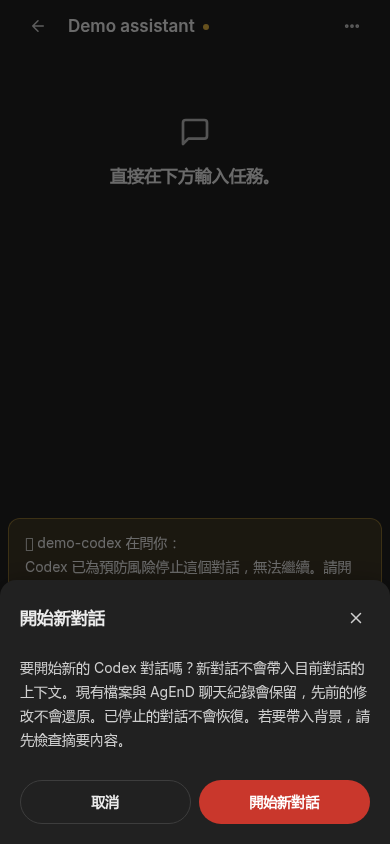
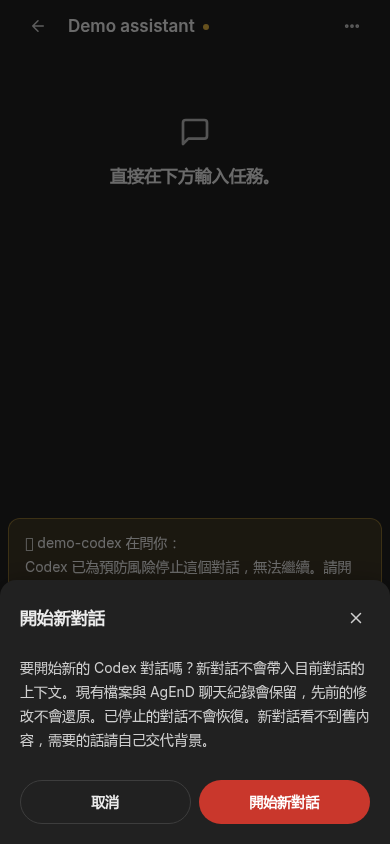
fix(web): distinguish confirming a fresh chat from sending it

Changed region(s): [[0.0308, 0.8626, 0.5231, 0.8934], [0.6462, 0.8318, 0.9538, 0.8626]]

diff --git a/src/locale.ts b/src/locale.ts
@@ -754,7 +754,7 @@ const enMessages = {
     "codex.precaution.summary": "Codex paused this chat for a safety review. Open View for the full report.",
     "codex.precaution.stopped": "Codex stopped this chat as a precaution. This chat cannot continue. Start a new chat to work on a new request.",
     "codex.precaution.new_chat": "Start a new chat",
-    "codex.precaution.new_chat_confirm": "Start a new Codex chat? The new chat will not carry over this conversation’s context. Existing files and AgEnD’s chat history stay; earlier changes are not undone. The stopped chat is not resumed. Review a summary before sharing any context with the new chat.",
+    "codex.precaution.new_chat_confirm": "Start a new Codex chat? The new chat will not carry over this conversation’s context. Existing files and AgEnD’s chat history stay; earlier changes are not undone. The stopped chat is not resumed. The new chat cannot see the old content; provide any background it needs yourself.",
     "codex.precaution.review": "Review findings",
     "codex.precaution.back": "Back",
     "codex.precaution.ack": "Acknowledge and continue",
@@ -786,7 +786,7 @@ const enMessages = {
     "interactive.delivery_failed": "❌ Could not deliver the assistance request for {0} to General.",
     "card.question_intro": "❓ {0} is asking you:",
     "card.question_hint": "Tap an answer below.",
-    "card.selection_hint": "Choose one below — it is keyed into the agent's terminal as you chose. Or answer it yourself in its View.",
+    "card.selection_hint": "Choose one below. We'll press it in the agent's terminal for you.",
     "card.question_hint_text": "Tap an answer below, or reply to this message to answer in your own words.",
     "card.recommended": "(recommended)",
     "card.skip": "⏭ Skip",
@@ -2596,10 +2596,10 @@ const zhTWMessages: { [K in keyof typeof enMessages]: string } = {
     "interactive.kind.dangerous_command": "危險命令確認",
     "interactive.kind.login": "登入",
     "interactive.kind.safety_review": "Codex 安全審查",
-    "codex.precaution.summary": "Codex 已暫停這個對話，等待安全審查。請開啟 View 查看完整報告。",
+    "codex.precaution.summary": "Codex 已暫停這個對話，等待安全審查。請開啟檢視查看完整報告。",
     "codex.precaution.stopped": "Codex 已為預防風險停止這個對話，無法繼續。請開始新對話，處理新的請求。",
     "codex.precaution.new_chat": "開始新對話",
-    "codex.precaution.new_chat_confirm": "要開始新的 Codex 對話嗎？新對話不會帶入目前對話的上下文。現有檔案與 AgEnD 聊天紀錄會保留，先前的修改不會還原。已停止的對話不會恢復。若要帶入背景，請先檢查摘要內容。",
+    "codex.precaution.new_chat_confirm": "要開始新的 Codex 對話嗎？新對話不會帶入目前對話的上下文。現有檔案與 AgEnD 聊天紀錄會保留，先前的修改不會還原。已停止的對話不會恢復。新對話看不到舊內容，需要的話請自己交代背景。",
     "codex.precaution.review": "查看發現事項",
     "codex.precaution.back": "返回",
     "codex.precaution.ack": "確認並繼續",
@@ -2631,7 +2631,7 @@ const zhTWMessages: { [K in keyof typeof enMessages]: string } = {
     "interactive.delivery_failed": "❌ 無法把 {0} 的協助請求送進 General。",
     "card.question_intro": "❓ {0} 在問你：",
     "card.question_hint": "請點下方的答案。",
-    "card.selection_hint": "請在下方選一個——會照你的選擇輸入到 agent 的終端機。也可以自己到它的 View 回答。",
+    "card.selection_hint": "請在下方選一個，我們會在 Agent 的終端機代你按下。",
     "card.question_hint_text": "請點下方的答案，或回覆這則訊息用自己的話回答。",
     "card.recommended": "（建議）",
     "card.skip": "⏭ 略過",

diff --git a/src/ui/panel-needs.js b/src/ui/panel-needs.js
@@ -244,11 +244,12 @@ function NeedsItem({ item, nowMs, owner }) {
     // Only before Chat has booted: the page's own claim on this nonce, taken now (synchronously), kept until the
     // server's list drops the prompt (or the answer fails).
     if (claims.get().prompts[item.nonce]) return;
-    setClaim("prompts", item.nonce, "busy");
     const confirmation = item.actions?.find(a => a.id === action)?.confirmation;
+    setClaim("prompts", item.nonce, confirmation ? "confirming" : "busy");
     if (confirmation && !await confirmDialog({ ...confirmation, danger: true })) {
       setClaim("prompts", item.nonce, null); return;
     }
+    setClaim("prompts", item.nonce, "busy");
     let r = null;
     try {
       const res = await fetch("/ui/prompt", { method: "POST", headers: { "Content-Type": "application/json" },
@@ -285,7 +286,7 @@ function NeedsItem({ item, nowMs, owner }) {
       ${item.type==='host'?(item.hostAlert?html`<${HostAlertActions} record=${item.hostAlert}/>`:html`<a class="btn btn-sm" href=${fleetPath('host-health')}>${hostAlertText('open')}</a>`):null}
       <div class="n-actions">
         ${item.type === "prompt" && Array.isArray(item.actions) ? item.actions.filter((a) => !a.input).map((a) => html`<button key=${a.id} type="button" class="btn btn-sm"
-            disabled=${promptBusy} onClick=${() => answer(a.id)}>${(p ? p.busy : fallback === "busy") ? tn("answering") : a.label}</button>`) : null}
+            disabled=${promptBusy} onClick=${() => answer(a.id)}>${(p ? p.busy && !p.confirming : fallback === "busy") ? tn("answering") : a.label}</button>`) : null}
         ${item.type === "delivery" || item.type === "missed" ? html`<button type="button" class="btn btn-sm" disabled=${!!ack} onClick=${acknowledge}>
             <${Icon} name="check" size=${14} />${ack === "busy" ? tn("acknowledging") : tn("acknowledge")}</button>` : null}
         ${(item.reason === "auth_paused" || item.reason === "backend_signin") && item.signIn && signInOffered() ? html`<button type="button" class="btn btn-sm btn-primary" onClick=${() => openSignIn(item.signIn)}>${tn("signIn")}</button>` : null}

diff --git a/src/ui/panel-chat.js b/src/ui/panel-chat.js
@@ -1259,7 +1259,7 @@ function Prompts({ name }) {
   return html`<div data-trust="permission" class="prompts" aria-live="polite">${list.map(p => html`<div key=${p.nonce} class=${`prompt${p.resolved ? " done" : ""}`} role="group" aria-label=${p.text}>
     <div class="txt">${p.resolved ? (p.outcome || t("chat.promptGone")) : textLinkSegments(p.text, p.links).map(sg => sg.href ? html`<a data-trust="link" class="st-link" href=${sg.href}>${sg.text}</a>` : sg.text)}</div>
     ${p.resolved ? null : html`<div class="acts">${p.actions.filter(a => !a.input).map(a => html`<button key=${a.id} type="button" class="btn" disabled=${!!p.busy} onClick=${() => store.answerPrompt(p, a.id)}>${a.label}</button>`)}
-      ${p.busy ? html`<span class="wait">${t("chat.promptAnswering")}</span>` : null}</div>`}
+      ${p.busy && !p.confirming ? html`<span class="wait">${t("chat.promptAnswering")}</span>` : null}</div>`}
     ${p.resolved ? null : p.actions.filter(a => a.input).map(a => html`<${PromptText} key=${a.id} p=${p} action=${a} />`)}</div>`)}</div>`;
 }
 

diff --git a/src/ui/chat-store.js b/src/ui/chat-store.js
@@ -264,14 +264,16 @@ export function createChatStore(deps) {
   /** `text`: #2675 — the typed answer, for an action the prompt shows a text box for. */
   async function answerPrompt(p, action, text) {
     if (p.busy || p.resolved) return;
-    p.busy = true; changed(p.instance);
     const confirmation = p.actions?.find(a => a.id === action)?.confirmation;
+    p.busy = true; p.confirming = !!confirmation; changed(p.instance);
     if (confirmation) {
       const yes = deps.confirm ? await deps.confirm({ ...confirmation, danger: true }) : false;
+      p.confirming = false;
       if (!yes || p.resolved || s.prompts[p.nonce] !== p) {
         p.busy = false; changed(p.instance); return;
       }
     }
+    changed(p.instance);
     let r;
     try { r = await api("POST", "/ui/prompt", { instance: p.instance, nonce: p.nonce, action, ...(text !== undefined ? { text } : {}) }); }
     catch (err) { r = { error: err && err.message ? err.message : t("chat.disconnected") }; }

diff --git a/tests/codex-stopped-confirm-m3519.test.ts b/tests/codex-stopped-confirm-m3519.test.ts
@@ -19,6 +19,7 @@ it("Chat and Needs you share a confirmation, cancellation sends nothing, and onl
   await settle();
   expect(h.confirm).toHaveBeenCalledWith({ ...confirmation, danger: true });
   expect(h.fetch).not.toHaveBeenCalled();
+  expect(h.prompt()).toMatchObject({ busy: true, confirming: true });
   await h.store.answerPrompt(h.prompt(), "opt-1");
   expect(h.confirm).toHaveBeenCalledTimes(1);
   h.decide(false); await pending;

diff --git a/docs/evidence/codex-stopped-web-m3519/README.md b/docs/evidence/codex-stopped-web-m3519/README.md
@@ -24,3 +24,11 @@ The requested synthetic reproduction uses the real FleetManager and NeedsYouHub 
 ## Limits and rollback
 
 No live pane was touched. No provider/model call, real credential or live content enters the recipe or evidence. The missing live badge remains an evidence limitation, not a claimed fix. Reverting the parser option and confirmation plumbing returns to the informational stopped card; no storage or migration change is involved.
+
+### Capture review corrections
+
+Confirmation now retains the choice label without an answering indicator; that indicator starts only after confirmation. The eight-case browser recipe explicitly refuses a premature answering indicator. The zh-TW status uses the product's existing localized safety-review string. Confirmation says to provide needed background explicitly rather than referring to a nonexistent summary. Selection guidance no longer suggests typing into read-only View.
+
+The retained question-mark emoji's missing-glyph square is specific to the capture host: `fc-list ':charset=2753'` reports no matching installed font, while `fc-match` falls back to DejaVu Sans. The existing shared prompt prefix is unchanged; no font is installed by the recipe.
+
+After these scoped copy/confirmation corrections, the five affected UI/parser/poll/i18n files pass 102 tests. The original wider 393-test result covers the preceding runtime implementation; no CLI or provider campaign was repeated.
